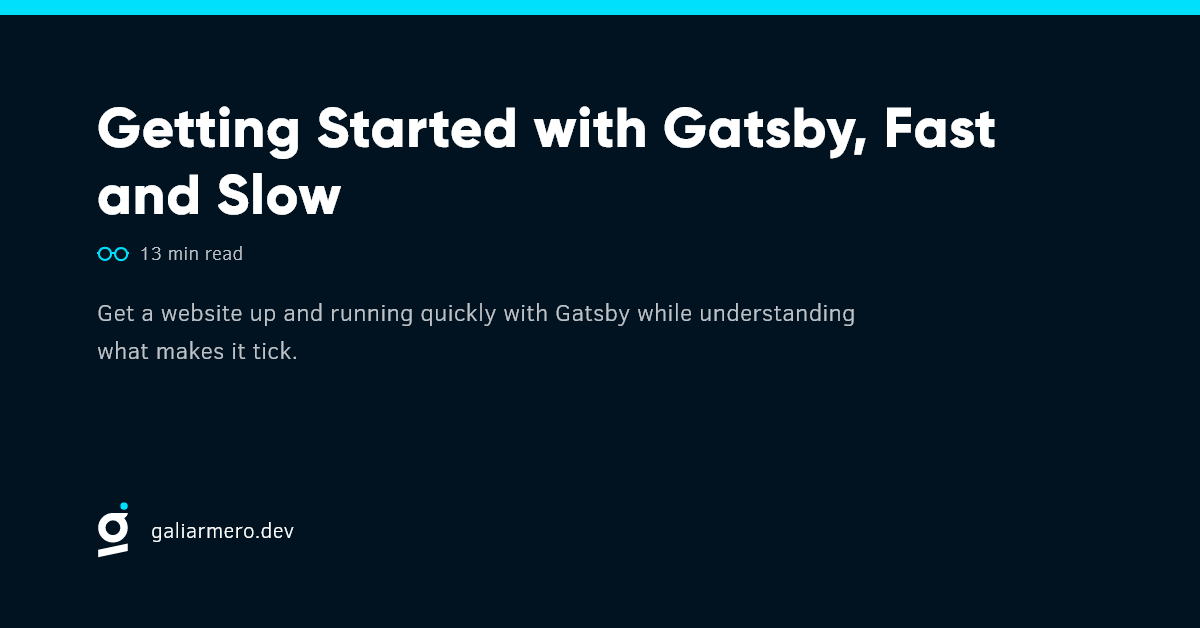
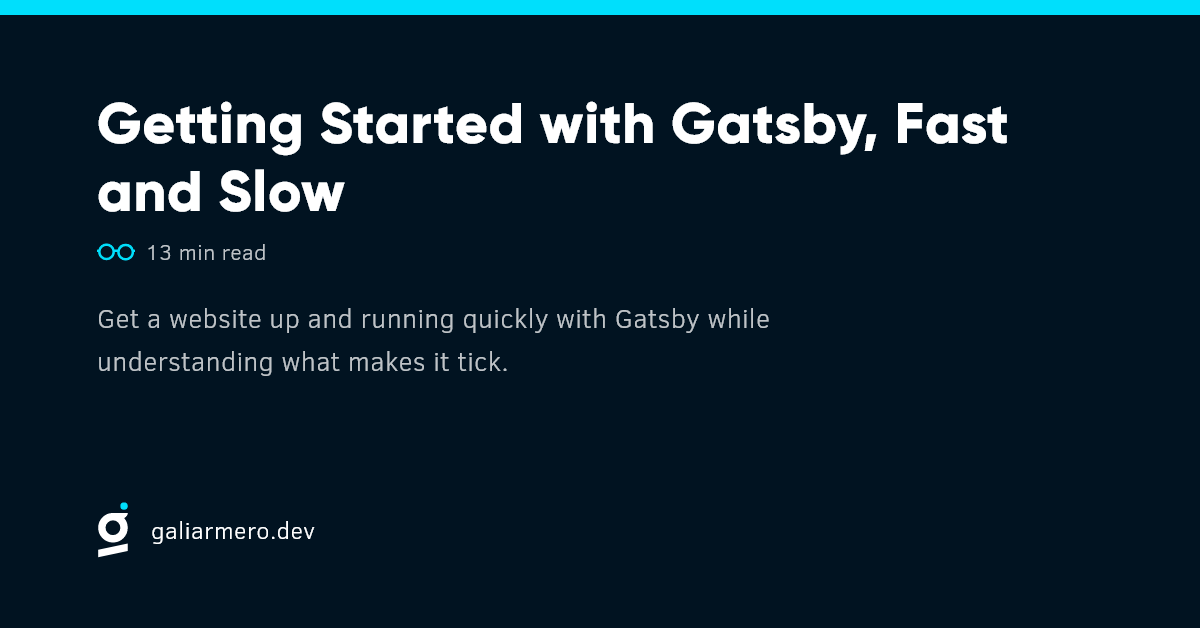
Adjust sharing card font sizes

diff --git a/src/templates/sharing-card.js b/src/templates/sharing-card.js
@@ -13,7 +13,7 @@ const Card = styled.div`
   height: ${props => props.height || 400}px;
   background: var(--bgColor);
   border-top: 15px solid var(--accentColor);
-  padding: 80px 85px 70px;
+  padding: 75px 85px 70px;
 `
 
 const CardMain = styled.main`
@@ -35,24 +35,24 @@ const CardFooter = styled.footer`
 `
 
 const Title = styled.h1`
-  font-size: 3.5rem;
+  font-size: 3.55rem;
   overflow-wrap: break-word;
-`
-
-const Teaser = styled.p`
-  font-size: 1.5rem;
-  width: 80%;
-  margin-top: 1.4rem;
 `
 
 const PostDetails = styled.div`
   font-family: 'ClearSans-Light', sans-serif;
-  font-size: 1.2rem;
+  font-size: 1.4rem;
   margin-top: 0.5rem;
 `
 
+const Teaser = styled.p`
+  font-size: 1.7rem;
+  width: 80%;
+  margin-top: 1.4rem;
+`
+
 const SiteDomain = styled.span`
-  font-size: 1.3rem;
+  font-size: 1.5rem;
   color: var(--headingColor);
   letter-spacing: 0.5px;
   margin-left: 10px;
@@ -60,8 +60,8 @@ const SiteDomain = styled.span`
 
 const iconStyle = css`
   position: relative;
-  top: -0.05rem;
-  font-size: 2rem;
+  top: -0.15rem;
+  font-size: 2.4rem;
   margin-right: 10px;
   color: var(--accentColor);
   stroke-width: 2px;
